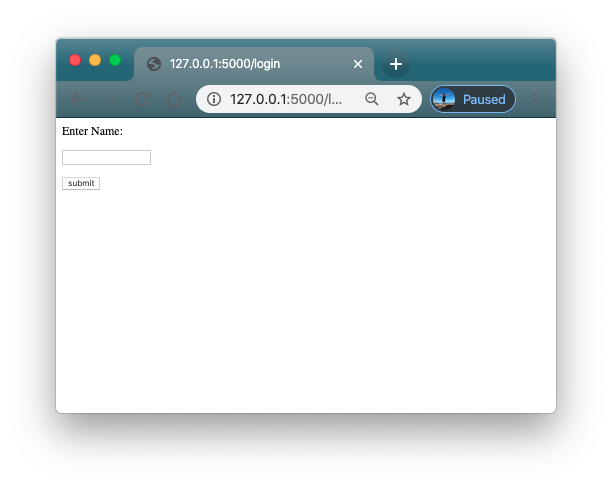
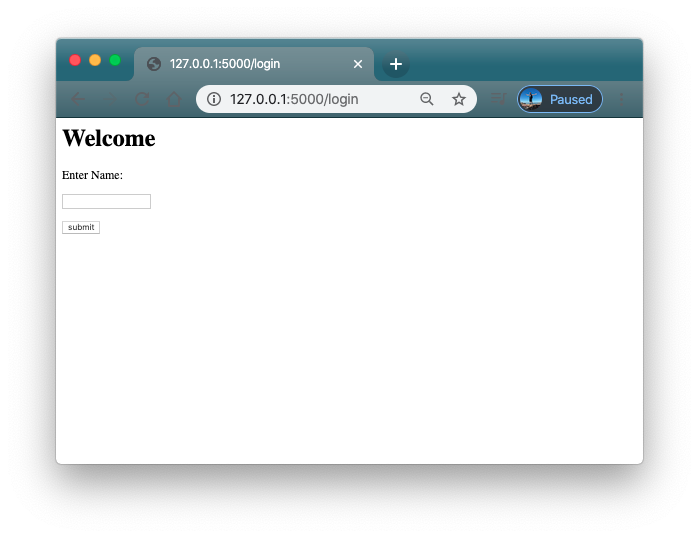
resize logins

Changed region(s): [[0.0621, 0.0616, 0.9314, 0.8624]]

diff --git a/2020_Spring/app/templates/login.html b/2020_Spring/app/templates/login.html
@@ -1,30 +1,30 @@
 <html>
   <head>
     <!-- Using Booptstrap 4 to center align everything -->
-    <link rel="stylesheet" href="https://maxcdn.bootstrapcdn.com/bootstrap/4.0.0/css/bootstrap.min.css" integrity="sha384-Gn5384xqQ1aoWXA+058RXPxPg6fy4IWvTNh0E263XmFcJlSAwiGgFAW/dAiS6JXm" crossorigin="anonymous">
+    <!-- <link rel="stylesheet" href="https://maxcdn.bootstrapcdn.com/bootstrap/4.0.0/css/bootstrap.min.css" integrity="sha384-Gn5384xqQ1aoWXA+058RXPxPg6fy4IWvTNh0E263XmFcJlSAwiGgFAW/dAiS6JXm" crossorigin="anonymous"> -->
   </head>
 
   <body>
-    <row class="text-center">
+    <!-- <row class="text-center"> -->
       <h1> Welcome </h1>
-    </row>
+    <!-- </row> -->
 
-    <row class="text-center">
+    <!-- <row class="text-center"> -->
       <form action = "http://localhost:5000/login" method = "post">
-        <row>
-          <col>
+        <!-- <row>
+          <col> -->
             <p>Enter Name:</p>
             <p><input type = "text" name = "nm" /></p>
-          </col>
-        </row>
+          <!-- </col>
+        </row> -->
 
-        <row>
-          <col>
+        <!-- <row>
+          <col> -->
             <p><input type = "submit" value = "submit" /></p>
-          </col>
-        </row>
+          <!-- </col>
+        </row> -->
       </form>
-    </row>
+    <!-- </row> -->
 
     </body>
 </html>
